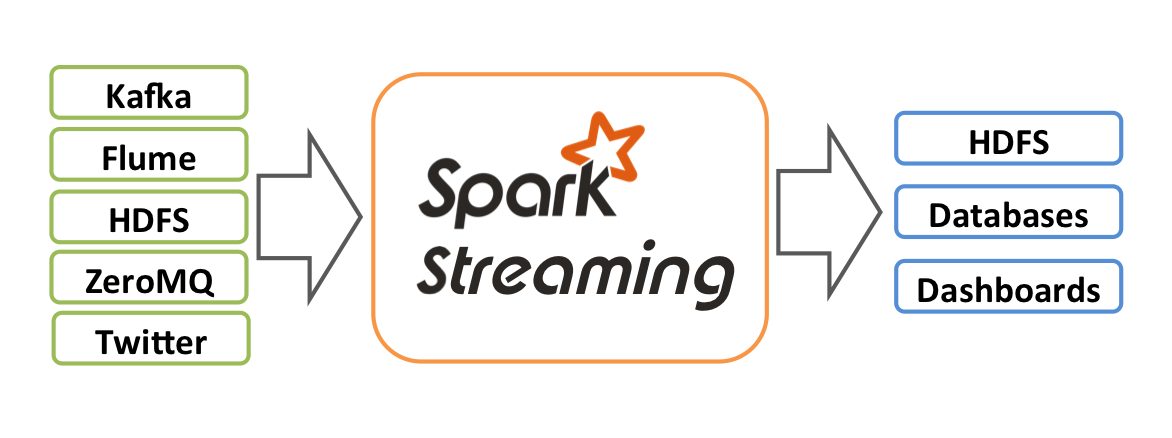
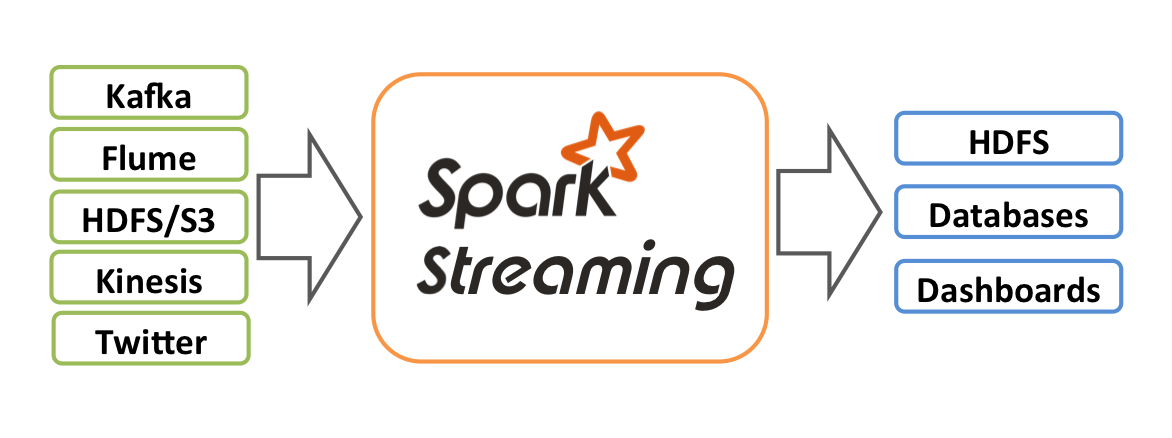
[SPARK-2419][Streaming][Docs] More updates to the streaming programming guide
- Improvements to the kinesis integration guide from @cfregly
- More information about unified input dstreams in main guide

Author: Tathagata Das <tathagata.das1565@gmail.com>
Author: Chris Fregly <chris@fregly.com>

Closes #2307 from tdas/streaming-doc-fix1 and squashes the following commits:

ec40b5d [Tathagata Das] Updated figure with kinesis
fdb9c5e [Tathagata Das] Fixed style issues with kinesis guide
036d219 [Chris Fregly] updated kinesis docs and added an arch diagram
24f622a [Tathagata Das] More modifications.

Changed region(s): [[0.0614, 0.5936, 0.1843, 0.6826], [0.0614, 0.4749, 0.1843, 0.5342]]

diff --git a/docs/streaming-kinesis-integration.md b/docs/streaming-kinesis-integration.md
@@ -3,8 +3,8 @@ layout: global
 title: Spark Streaming + Kinesis Integration
 ---
 [Amazon Kinesis](http://aws.amazon.com/kinesis/) is a fully managed service for real-time processing of streaming data at massive scale.
-The Kinesis input DStream and receiver uses the Kinesis Client Library (KCL) provided by Amazon under the Amazon Software License (ASL).
-The KCL builds on top of the Apache 2.0 licensed AWS Java SDK and provides load-balancing, fault-tolerance, checkpointing through the concept of Workers, Checkpoints, and Shard Leases.
+The Kinesis receiver creates an input DStream using the Kinesis Client Library (KCL) provided by Amazon under the Amazon Software License (ASL).
+The KCL builds on top of the Apache 2.0 licensed AWS Java SDK and provides load-balancing, fault-tolerance, checkpointing through the concepts of Workers, Checkpoints, and Shard Leases.
 Here we explain how to configure Spark Streaming to receive data from Kinesis.
 
 #### Configuring Kinesis
@@ -15,7 +15,7 @@ A Kinesis stream can be set up at one of the valid Kinesis endpoints with 1 or m
 
 #### Configuring Spark Streaming Application
 
-1. **Linking:** In your SBT/Maven projrect definition, link your streaming application against the following artifact (see [Linking section](streaming-programming-guide.html#linking) in the main programming guide for further information).
+1. **Linking:** In your SBT/Maven project definition, link your streaming application against the following artifact (see [Linking section](streaming-programming-guide.html#linking) in the main programming guide for further information).
 
 		groupId = org.apache.spark
 		artifactId = spark-streaming-kinesis-asl_{{site.SCALA_BINARY_VERSION}}
@@ -23,10 +23,11 @@ A Kinesis stream can be set up at one of the valid Kinesis endpoints with 1 or m
 
 	**Note that by linking to this library, you will include [ASL](https://aws.amazon.com/asl/)-licensed code in your application.**
 
-2. **Programming:** In the streaming application code, import `KinesisUtils` and create input DStream as follows.
+2. **Programming:** In the streaming application code, import `KinesisUtils` and create the input DStream as follows:
 
 	<div class="codetabs">
 	<div data-lang="scala" markdown="1">
+		import org.apache.spark.streaming.Duration
 		import org.apache.spark.streaming.kinesis._
 		import com.amazonaws.services.kinesis.clientlibrary.lib.worker.InitialPositionInStream
 
@@ -34,11 +35,13 @@ A Kinesis stream can be set up at one of the valid Kinesis endpoints with 1 or m
         	streamingContext, [Kinesis stream name], [endpoint URL], [checkpoint interval], [initial position])
 
 	See the [API docs](api/scala/index.html#org.apache.spark.streaming.kinesis.KinesisUtils$)
-	and the [example]({{site.SPARK_GITHUB_URL}}/tree/master/extras/kinesis-asl/src/main/scala/org/apache/spark/examples/streaming/KinesisWordCountASL.scala). Refer to the next subsection for instructions to run the example.
+	and the [example]({{site.SPARK_GITHUB_URL}}/tree/master/extras/kinesis-asl/src/main/scala/org/apache/spark/examples/streaming/KinesisWordCountASL.scala). Refer to the Running the Example section for instructions on how to run the example.
 
 	</div>
 	<div data-lang="java" markdown="1">
-		import org.apache.spark.streaming.flume.*;
+		import org.apache.spark.streaming.Duration;
+		import org.apache.spark.streaming.kinesis.*;
+		import com.amazonaws.services.kinesis.clientlibrary.lib.worker.InitialPositionInStream;
 
 		JavaReceiverInputDStream<byte[]> kinesisStream = KinesisUtils.createStream(
         	streamingContext, [Kinesis stream name], [endpoint URL], [checkpoint interval], [initial position]);
@@ -49,36 +52,73 @@ A Kinesis stream can be set up at one of the valid Kinesis endpoints with 1 or m
 	</div>
 	</div>
 
-	`[endpoint URL]`: Valid Kinesis endpoints URL can be found [here](http://docs.aws.amazon.com/general/latest/gr/rande.html#ak_region).
+    - `streamingContext`: StreamingContext containg an application name used by Kinesis to tie this Kinesis application to the Kinesis stream
 
-	`[checkpoint interval]`: The interval at which the Kinesis client library is going to save its position in the stream. For starters, set it to the same as the batch interval of the streaming application.
+	- `[Kinesis stream name]`: The Kinesis stream that this streaming application receives from
+		- The application name used in the streaming context becomes the Kinesis application name
+		- The application name must be unique for a given account and region.
+		- The Kinesis backend automatically associates the application name to the Kinesis stream using a DynamoDB table (always in the us-east-1 region) created during Kinesis Client Library initialization. 
+		- Changing the application name or stream name can lead to Kinesis errors in some cases.  If you see errors, you may need to manually delete the DynamoDB table.
 
-	`[initial position]`: Can be either `InitialPositionInStream.TRIM_HORIZON` or `InitialPositionInStream.LATEST` (see later section and Amazon Kinesis API documentation for more details).
 
-	*Points to remember:*
+	- `[endpoint URL]`: Valid Kinesis endpoints URL can be found [here](http://docs.aws.amazon.com/general/latest/gr/rande.html#ak_region).
 
-	- The name used in the context of the streaming application must be unique for a given account and region. Changing the app name or stream name could lead to Kinesis errors as only a single logical application can process a single stream.
-	- A single Kinesis input DStream can receive many Kinesis shards by spinning up multiple KinesisRecordProcessor threads. Note that there is no correlation between number of shards in Kinesis and the number of partitions in the generated RDDs that is used for processing the data.
-	- You never need more KinesisReceivers than the number of shards in your stream as each will spin up at least one KinesisRecordProcessor thread.
-	- Horizontal scaling is achieved by autoscaling additional Kinesis input DStreams (separate processes) up to the number of current shards for a given stream, of course.
+	- `[checkpoint interval]`: The interval (e.g., Duration(2000) = 2 seconds) at which the Kinesis Client Library saves its position in the stream.  For starters, set it to the same as the batch interval of the streaming application.
 
-3. **Deploying:** Package `spark-streaming-flume_{{site.SCALA_BINARY_VERSION}}` and its dependencies (except `spark-core_{{site.SCALA_BINARY_VERSION}}` and `spark-streaming_{{site.SCALA_BINARY_VERSION}}` which are provided by `spark-submit`) into the application JAR. Then use `spark-submit` to launch your application (see [Deploying section](streaming-programming-guide.html#deploying-applications) in the main programming guide).
+	- `[initial position]`: Can be either `InitialPositionInStream.TRIM_HORIZON` or `InitialPositionInStream.LATEST` (see Kinesis Checkpointing section and Amazon Kinesis API documentation for more details).
 
-    - A DynamoDB table and CloudWatch namespace are created during KCL initialization using this Kinesis application name.  This DynamoDB table lives in the us-east-1 region regardless of the Kinesis endpoint URL. It is used to store KCL's checkpoint information.
 
-    - If you are seeing errors after changing the app name or stream name, it may be necessary to manually delete the DynamoDB table and start from scratch.
+3. **Deploying:** Package `spark-streaming-kinesis-asl_{{site.SCALA_BINARY_VERSION}}` and its dependencies (except `spark-core_{{site.SCALA_BINARY_VERSION}}` and `spark-streaming_{{site.SCALA_BINARY_VERSION}}` which are provided by `spark-submit`) into the application JAR. Then use `spark-submit` to launch your application (see [Deploying section](streaming-programming-guide.html#deploying-applications) in the main programming guide).
+
+	*Points to remember at runtime:*
+
+	- Kinesis data processing is ordered per partition and occurs at-least once per message.
+
+	- Multiple applications can read from the same Kinesis stream.  Kinesis will maintain the application-specific shard and checkpoint info in DynamodDB.
+
+	- A single Kinesis stream shard is processed by one input DStream at a time.
+
+	<p style="text-align: center;">
+  		<img src="img/streaming-kinesis-arch.png"
+       		title="Spark Streaming Kinesis Architecture"
+       		alt="Spark Streaming Kinesis Architecture"
+	       width="60%" 
+        />
+	  	<!-- Images are downsized intentionally to improve quality on retina displays -->
+	</p>
+
+	- A single Kinesis input DStream can read from multiple shards of a Kinesis stream by creating multiple KinesisRecordProcessor threads.
+
+	- Multiple input DStreams running in separate processes/instances can read from a Kinesis stream.
+
+	- You never need more Kinesis input DStreams than the number of Kinesis stream shards as each input DStream will create at least one KinesisRecordProcessor thread that handles a single shard.
+
+	- Horizontal scaling is achieved by adding/removing  Kinesis input DStreams (within a single process or across multiple processes/instances) - up to the total number of Kinesis stream shards per the previous point.
+
+	- The Kinesis input DStream will balance the load between all DStreams - even across processes/instances.
+
+	- The Kinesis input DStream will balance the load during re-shard events (merging and splitting) due to changes in load.
+
+	- As a best practice, it's recommended that you avoid re-shard jitter by over-provisioning when possible.
+
+	- Each Kinesis input DStream maintains its own checkpoint info.  See the Kinesis Checkpointing section for more details.
+
+	- There is no correlation between the number of Kinesis stream shards and the number of RDD partitions/shards created across the Spark cluster during input DStream processing.  These are 2 independent partitioning schemes.
 
 #### Running the Example
 To run the example,
+
 - Download Spark source and follow the [instructions](building-with-maven.html) to build Spark with profile *-Pkinesis-asl*.
 
-    mvn -Pkinesis-asl -DskipTests clean package
+        mvn -Pkinesis-asl -DskipTests clean package
 
-- Set up Kinesis stream (see earlier section). Note the name of the Kinesis stream, and the endpoint URL corresponding to the region the stream is based on.
+
+- Set up Kinesis stream (see earlier section) within AWS. Note the name of the Kinesis stream and the endpoint URL corresponding to the region where the stream was created.
 
 - Set up the environment variables AWS_ACCESS_KEY_ID and AWS_SECRET_KEY with your AWS credentials.
 
 - In the Spark root directory, run the example as
+
 	<div class="codetabs">
 	<div data-lang="scala" markdown="1">
 
@@ -92,19 +132,19 @@ To run the example,
 	</div>
 	</div>
 
-    This will wait for data to be received from Kinesis.
+    This will wait for data to be received from the Kinesis stream.
 
-- To generate random string data, in another terminal, run the associated Kinesis data producer.
+- To generate random string data to put onto the Kinesis stream, in another terminal, run the associated Kinesis data producer.
 
 		bin/run-example streaming.KinesisWordCountProducerASL [Kinesis stream name] [endpoint URL] 1000 10
 
-	This will push random words to the Kinesis stream, which should then be received and processed by the running example.
+	This will push 1000 lines per second of 10 random numbers per line to the Kinesis stream.  This data should then be received and processed by the running example.
 
 #### Kinesis Checkpointing
-The Kinesis receiver checkpoints the position of the stream that has been read periodically, so that the system can recover from failures and continue processing where it had left off. Checkpointing too frequently will cause excess load on the AWS checkpoint storage layer and may lead to AWS throttling.  The provided example handles this throttling with a random-backoff-retry strategy.
+- Each Kinesis input DStream periodically stores the current position of the stream in the backing DynamoDB table.  This allows the system to recover from failures and continue processing where the DStream left off.
 
-- If no Kinesis checkpoint info exists, the KinesisReceiver will start either from the oldest record available (InitialPositionInStream.TRIM_HORIZON) or from the latest tip (InitialPostitionInStream.LATEST).  This is configurable.
+- Checkpointing too frequently will cause excess load on the AWS checkpoint storage layer and may lead to AWS throttling.  The provided example handles this throttling with a random-backoff-retry strategy.
 
-- InitialPositionInStream.LATEST could lead to missed records if data is added to the stream while no KinesisReceivers are running (and no checkpoint info is being stored). In production, you'll want to switch to InitialPositionInStream.TRIM_HORIZON which will read up to 24 hours (Kinesis limit) of previous stream data.
-
-- InitialPositionInStream.TRIM_HORIZON may lead to duplicate processing of records where the impact is dependent on checkpoint frequency.
+- If no Kinesis checkpoint info exists when the input DStream starts, it will start either from the oldest record available (InitialPositionInStream.TRIM_HORIZON) or from the latest tip (InitialPostitionInStream.LATEST).  This is configurable.
+- InitialPositionInStream.LATEST could lead to missed records if data is added to the stream while no input DStreams are running (and no checkpoint info is being stored). 
+- InitialPositionInStream.TRIM_HORIZON may lead to duplicate processing of records where the impact is dependent on checkpoint frequency and processing idempotency.

diff --git a/docs/streaming-programming-guide.md b/docs/streaming-programming-guide.md
@@ -233,7 +233,7 @@ $ ./bin/run-example streaming.NetworkWordCount localhost 9999
 </div>
 <div data-lang="java" markdown="1">
 {% highlight bash %}
-$ ./bin/run-example JavaNetworkWordCount localhost 9999
+$ ./bin/run-example streaming.JavaNetworkWordCount localhost 9999
 {% endhighlight %}
 </div>
 </div>
@@ -262,7 +262,7 @@ hello world
 {% highlight bash %}
 # TERMINAL 2: RUNNING NetworkWordCount or JavaNetworkWordCount
 
-$ ./bin/run-example org.apache.spark.examples.streaming.NetworkWordCount localhost 9999
+$ ./bin/run-example streaming.NetworkWordCount localhost 9999
 ...
 -------------------------------------------
 Time: 1357008430000 ms
@@ -285,12 +285,22 @@ need to know to write your streaming applications.
 
 ## Linking
 
-To write your own Spark Streaming program, you will have to add the following dependency to your
- SBT or Maven project:
+Similar to Spark, Spark Streaming is available through Maven Central. To write your own Spark Streaming program, you will have to add the following dependency to your SBT or Maven project.
 
-    groupId = org.apache.spark
-    artifactId = spark-streaming_{{site.SCALA_BINARY_VERSION}}
-    version = {{site.SPARK_VERSION}}
+<div class="codetabs">
+<div data-lang="Maven" markdown="1">
+
+	<dependency>
+        <groupId>org.apache.spark</groupId>
+        <artifactId>spark-streaming_{{site.SCALA_BINARY_VERSION}}</artifactId>
+        <version>{{site.SPARK_VERSION}}</version>
+    </dependency>
+</div>
+<div data-lang="SBT" markdown="1">
+
+	libraryDependencies += "org.apache.spark" % "spark-streaming_{{site.SCALA_BINARY_VERSION}}" % "{{site.SPARK_VERSION}}"
+</div>
+</div>
 
 For ingesting data from sources like Kafka, Flume, and Kinesis that are not present in the Spark
 Streaming core
@@ -302,7 +312,7 @@ some of the common ones are as follows.
 <tr><th>Source</th><th>Artifact</th></tr>
 <tr><td> Kafka </td><td> spark-streaming-kafka_{{site.SCALA_BINARY_VERSION}} </td></tr>
 <tr><td> Flume </td><td> spark-streaming-flume_{{site.SCALA_BINARY_VERSION}} </td></tr>
-<tr><td> Kinesis<br/></td><td>spark-streaming-kinesis-asl_{{site.SCALA_BINARY_VERSION}} </td></tr>
+<tr><td> Kinesis<br/></td><td>spark-streaming-kinesis-asl_{{site.SCALA_BINARY_VERSION}} [Apache Software License] </td></tr>
 <tr><td> Twitter </td><td> spark-streaming-twitter_{{site.SCALA_BINARY_VERSION}} </td></tr>
 <tr><td> ZeroMQ </td><td> spark-streaming-zeromq_{{site.SCALA_BINARY_VERSION}} </td></tr>
 <tr><td> MQTT </td><td> spark-streaming-mqtt_{{site.SCALA_BINARY_VERSION}} </td></tr>
@@ -373,7 +383,7 @@ or a special __"local[\*]"__ string to run in local mode. In practice, when runn
 you will not want to hardcode `master` in the program,
 but rather [launch the application with `spark-submit`](submitting-applications.html) and
 receive it there. However, for local testing and unit tests, you can pass "local[*]" to run Spark Streaming
-in-process. Note that this internally creates a [JavaSparkContext](api/java/index.html?org/apache/spark/api/java/JavaSparkContext.html) (starting point of all Spark functionality) which can be accessed as `ssc.sparkContext`. 
+in-process. Note that this internally creates a [JavaSparkContext](api/java/index.html?org/apache/spark/api/java/JavaSparkContext.html) (starting point of all Spark functionality) which can be accessed as `ssc.sparkContext`.
 
 The batch interval must be set based on the latency requirements of your application
 and available cluster resources. See the [Performance Tuning](#setting-the-right-batch-size)
@@ -447,11 +457,12 @@ Spark Streaming has two categories of streaming sources.
 - *Basic sources*: Sources directly available in the StreamingContext API. Example: file systems, socket connections, and Akka actors.
 - *Advanced sources*: Sources like Kafka, Flume, Kinesis, Twitter, etc. are available through extra utility classes. These require linking against extra dependencies as discussed in the [linking](#linking) section.
 
-Every input DStream (except file stream) is associated with a single [Receiver](api/scala/index.html#org.apache.spark.streaming.receiver.Receiver) object which receives the data from a source and stores it in Spark's memory for processing. A receiver is run within a Spark worker/executor as a long-running task, hence it occupies one of the cores allocated to the Spark Streaming application. Hence, it is important to remember that Spark Streaming application needs to be allocated enough cores to process the received data, as well as, to run the receiver(s). Therefore, few important points to remember are:
+Every input DStream (except file stream) is associated with a single [Receiver](api/scala/index.html#org.apache.spark.streaming.receiver.Receiver) object which receives the data from a source and stores it in Spark's memory for processing. So every input DStream receives a single stream of data. Note that in a streaming application, you can create multiple input DStreams to receive multiple streams of data in parallel. This is discussed later in the [Performance Tuning](#level-of-parallelism-in-data-receiving) section.
+
+A receiver is run within a Spark worker/executor as a long-running task, hence it occupies one of the cores allocated to the Spark Streaming application. Hence, it is important to remember that Spark Streaming application needs to be allocated enough cores to process the received data, as well as, to run the receiver(s). Therefore, few important points to remember are:
 
 ##### Points to remember:
 {:.no_toc}
-
 - If the number of cores allocated to the application is less than or equal to the number of input DStreams / receivers, then the system will receive data, but not be able to process them.
 - When running locally, if you master URL is set to "local", then there is only one core to run tasks.  That is insufficient for programs with even one input DStream (file streams are okay) as the receiver will occupy that core and there will be no core left to process the data.
 
@@ -1089,9 +1100,34 @@ parallelizing the data receiving. Note that each input DStream
 creates a single receiver (running on a worker machine) that receives a single stream of data.
 Receiving multiple data streams can therefore be achieved by creating multiple input DStreams
 and configuring them to receive different partitions of the data stream from the source(s).
-For example, a single Kafka input stream receiving two topics of data can be split into two
+For example, a single Kafka input DStream receiving two topics of data can be split into two
 Kafka input streams, each receiving only one topic. This would run two receivers on two workers,
-thus allowing data to be received in parallel, and increasing overall throughput.
+thus allowing data to be received in parallel, and increasing overall throughput. These multiple
+DStream can be unioned together to create a single DStream. Then the transformations that was
+being applied on the single input DStream can applied on the unified stream. This is done as follows.
+
+<div class="codetabs">
+<div data-lang="scala" markdown="1">
+{% highlight scala %}
+val numStreams = 5
+val kafkaStreams = (1 to numStreams).map { i => KafkaUtils.createStream(...) }
+val unifiedStream = streamingContext.union(kafkaStreams)
+unifiedStream.print()
+{% endhighlight %}
+</div>
+<div data-lang="java" markdown="1">
+{% highlight java %}
+int numStreams = 5;
+List<JavaPairDStream<String, String>> kafkaStreams = new ArrayList<JavaPairDStream<String, String>>(numStreams);
+for (int i = 0; i < numStreams; i++) {
+  kafkaStreams.add(KafkaUtils.createStream(...));
+}
+JavaPairDStream<String, String> unifiedStream = streamingContext.union(kafkaStreams.get(0), kafkaStreams.subList(1, kafkaStreams.size()));
+unifiedStream.print();
+{% endhighlight %}
+</div>
+</div>
+
 
 Another parameter that should be considered is the receiver's blocking interval. For most receivers,
 the received data is coalesced together into large blocks of data before storing inside Spark's memory.
@@ -1107,7 +1143,7 @@ before further processing.
 
 ### Level of Parallelism in Data Processing
 {:.no_toc}
-Cluster resources maybe under-utilized if the number of parallel tasks used in any stage of the
+Cluster resources can be under-utilized if the number of parallel tasks used in any stage of the
 computation is not high enough. For example, for distributed reduce operations like `reduceByKey`
 and `reduceByKeyAndWindow`, the default number of parallel tasks is decided by the [config property]
 (configuration.html#spark-properties) `spark.default.parallelism`. You can pass the level of
